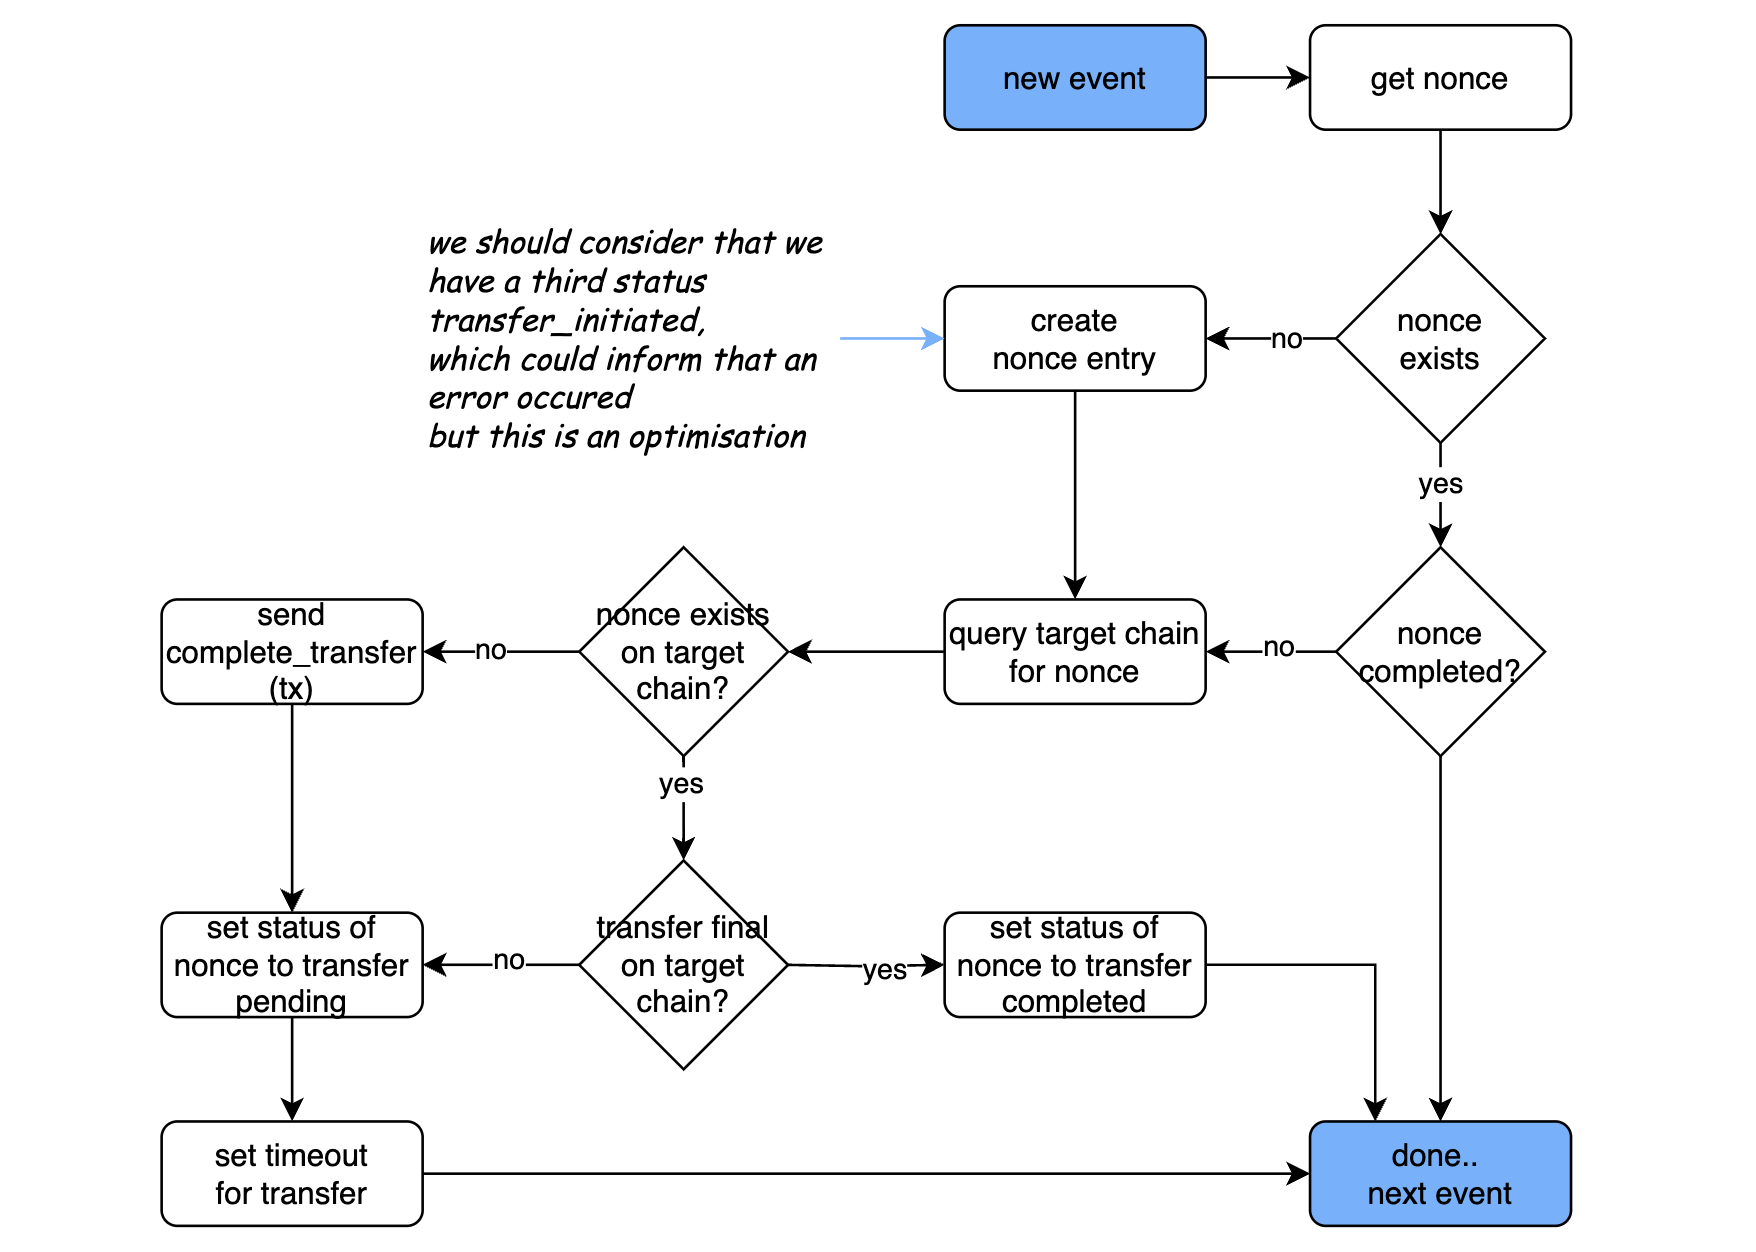
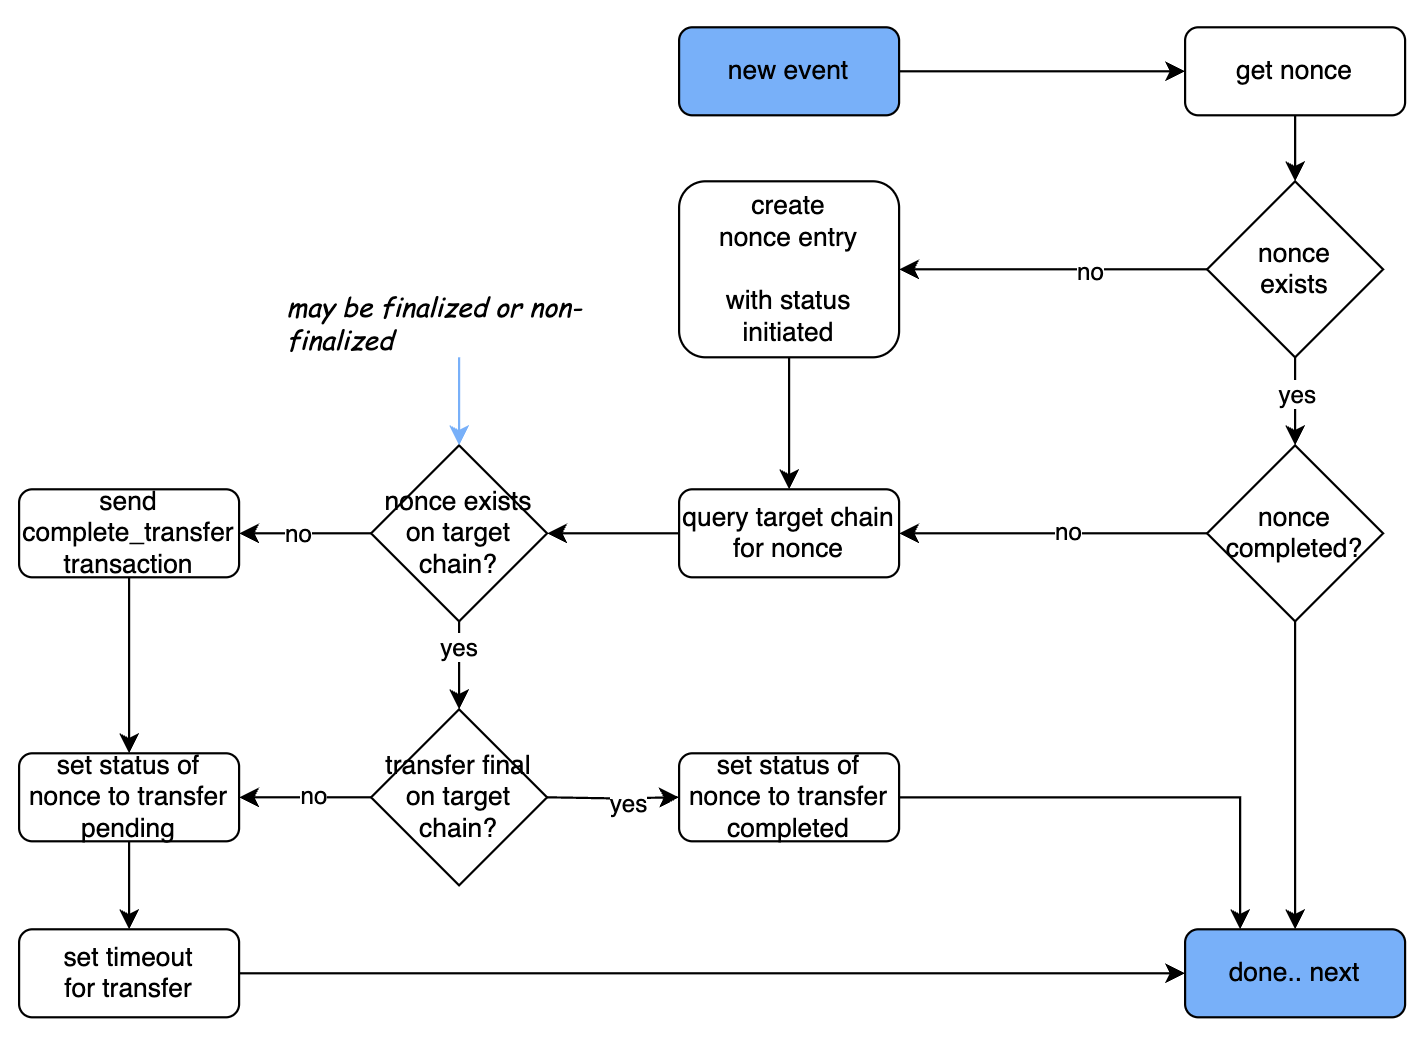
improve event_proccessing according to review

diff --git a/MIP/mip-61/README.md b/MIP/mip-61/README.md
@@ -21,7 +21,7 @@ We would like to minimize the number of trusted components. In a minimal solutio
 
 Several complications:
 
-- The `complete_transfer` message to the target chain for bridge transfers may fail, get lost, or other. Hence we cannot rely on delivery.
+- The `complete_transfer` transaction to the target chain for bridge transfers may fail, get lost, or other. Hence we cannot rely on delivery.
 - The relayer may loose local memory.
 - The relayer may have to be replaced.
 - The relayer (or its replacement) MUST not ignore a single transfer.
@@ -31,7 +31,7 @@ Several complications:
 **Bootstrapping**
 Currently, when the relayer starts, it doesn't reload the state that it has when it shuts down. If transfers are processed when the relayer stops, the transfers are lost and the relayer is not able to continue the transfer.
 
-Moreover, even if the data would be stored on where to continue, the relayer may crash for a variety of reasons. The relayer can go offline or crash. It needs to automatically understand which `complete_transfer` messages it still needs to send to the target chain.
+Moreover, even if the data would be stored on where to continue, the relayer may crash for a variety of reasons. The relayer can go offline or crash. It needs to automatically understand which `complete_transfer` transactions it still needs to send to the target chain.
 
 ## Context
 
@@ -46,7 +46,7 @@ In this MIP we consider the lock/mint Native Bridge, see [MIP-60](https://github
 
 ## Specification
 
-The key words "MUST", "MUST NOT", "REQUIRED", "SHALL", "SHALL NOT", "SHOULD", "SHOULD NOT", "RECOMMENDED", "NOT RECOMMENDED", "MAY", and "OPTIONAL" in this document are to be interpreted as described in RFC 2119 and RFC 8174.
+> _The key words "MUST", "MUST NOT", "REQUIRED", "SHALL", "SHALL NOT", "SHOULD", "SHOULD NOT", "RECOMMENDED", "NOT RECOMMENDED", "MAY", and "OPTIONAL" in this document are to be interpreted as described in RFC 2119 and RFC 8174._
 
 !!! . The algorithm is the same in both directions. Hence each algorithm has to be implemented twice. Once for the transfer direction L1 --> L2, and once for the L2 --> L1 direction.
 
@@ -56,12 +56,15 @@ The relayer can get its state from the source chain and target chain. The relaye
 
 **2. BOOTSTRAPPING:** The relayer initiate the event polling at some point in the past. This point is either the genesis, some configurable source block height, or some checkpoint (possibly set on-chain)
 
-### Structures
+### Assumptions on the Bridge Protocol
 
-On the source chain the following structure is used:
+**Nonce**:
+We assume the Native Bridge protocol MUST implement the assignment of an incrementing `nonce` on the source chain. Since there are two directions there MUST be two types of counters (`nonces`) - one for each transfer direction. The `nonce` is used to order the transfers.
+
+**Initiate Transfer**:
+The `initiate_transfer` function on the source chain is called by the user. It emits an event `initiate_transfer` with the following properties:
 
 ```javascript
-// Source Chain Structure
 {
     nonce: Number,          // Unique incrementing value for ordering transfers
     recipient: String,  // Address of the recipient on the target chain
@@ -70,10 +73,12 @@ On the source chain the following structure is used:
 }
 ```
 
-On the target chain the following structure is used:
+This structure is used to record the transfer on the source chain.
+
+**Complete Transfer**:
+The `complete_transfer` function on the target chain is called by the relayer. It emits an event `complete_transfer` with the following properties:
 
 ```javascript
-// Target Chain Structure
 {
     nonce: Number,         // Matching nonce from the source chain
     transferUID: String,   // Unique identifier for the transfer
@@ -83,43 +88,49 @@ On the target chain the following structure is used:
 }
 ```
 
+This structure is used to record the transfer on the target chain.
+
+### Relayer Structures
+
+
 Locally the relayer stores the following structure:
 
 ```javascript
 // Relayer Local Structure
 {
-    blocks: [                          // Array of blocks being tracked
-        {
-            blockHeight: Number,       // Height of the block
-            status: String,            // Status of the block (e.g., "processed", "completed")
-            events: [                  // Array of events in the block
-                {
-                    eventUID: String,  // Unique identifier for the event
-                    nonce: Number,     // Matching nonce from the source chain
-                    status: String     // Status of the event (e.g., "pending", "completed")
-                }
-            ]
+    nonces: {                          // Object keyed by nonce (integer)
+        [nonce: Number]: {             // Nonce as the integer key
+            blockHeight: Number,       // Height of the block containing the nonce
+            status: String,            // Status of the event
+            eventUID: String           // Unique identifier for the event
         }
-    ]
+    }
 }
 ```
 
+The relayer differentiates three status types:
 
-### EVENT_PROCESSING
+- `transfer_initiated`: the event has been received but not processed and the `complete_transfer` transaction has not been sent to the target chain.
+- `transfer_pending`: the `complete_transfer` transaction has been sent to the target chain but is not yet finalized.
+- `transfer_completed`: we received the (finalized) complete event.
 
-The relayer may send a message `complete_transfer` to the target chain for an event that has the status `transfer_pending`. This status exists during the time between the reception of the `initiate_transfer` event from the source chain and the success of the `complete_transfer` transaction on the target chain. (However, it is possible that a `complete_transfer` messages is not yet finalized on the target chain, in which case the relayer DOES NOT send a new `complete_transfer` message, but waits instead.)
+**Optimization**: There's another substate for pending when the `complete_transfer` transaction failed. In this case we should retry earlier than if the `complete_transfer` transaction was successful. We MAY differentiate the state `transfer_pending_executed` and `transfer_pending_failed`.
 
-The Native Bridge protocol MUST implement the assignment of an incrementing `nonce` on the source chain. Since there are two directions there MUST be two types of counters (`nonces`) - one for each transfer direction. The `nonce` is used to order the transfers.
+### EVENT_PROCESSING algorithm
 
 For each `initiate_transfer` event do the following:
 
 ![event_processing](event_processing.png)
 
+> [!NOTE]
+> The relayer may send a transaction `complete_transfer` to the target chain for an entry that has the status `transfer_pending`. This status exists during the time between the sending and the finalized success of the `complete_transfer` transaction on the target chain.
+
 ```javascript
 EVENT_PROCESSING:
-// Input: initiate_transfer_event from source chain
+// Input: initiate_transfer event from source chain
 // Input: target_chain_state - current state of the target chain
-SET `nonce` = `initiate_transfer_event.nonce` with nonce.status_transfer = `transfer_init`
+SET `nonce` = `initiate_transfer_event.nonce` 
+    with nonce.status_transfer = `transfer_initiated`
 SET `transfer_uid` = `initiate_transfer_event.transfer_uid`
 
 // Check if the `nonce` is already recorded
@@ -129,11 +140,11 @@ IF `nonce` is recorded THEN:
 ELSE: 
     CREATE new `nonce` entry locally and save it in ORDERED_SET.
 
-// note this is note the final state as is the case for most other state reads in this algorithm
-QUERY target chain contract for `nonce` in non-final state 
+// note this is not the final state as is the case for most other state reads in this algorithm
+QUERY target chain contract for `nonce` in non-final and final state
         
 // If `complete_transfer` transaction was sent previously to target chain
-IF `nonce` is found THEN:
+IF `nonce` is found on target chain THEN:
     IF `transfer_uid` does not match THEN:
         REPORT error and EXIT
 
@@ -153,7 +164,7 @@ ELSE:
     SET timeout for relayer to re-check later
 ```
 
-### CONTINUOUS_BLOCK_PROCESSING
+### CONTINUOUS_BLOCK_PROCESSING algorithm
 
 Next we describe the processing of source blocks and the completion of a transfer on the target chain, assuming the relayer is always online. Since this is a strong assumption, we reduce this requirement in the next section.
 
@@ -172,13 +183,8 @@ FOR EACH `event` IN `source_block.initiate_transfer_events` DO:
 SET `block.status` as `block_processed`
 ```
 
-!!! . Setting the source_block.status as processed and storing that information in a file, or similar, could help with bootstrapping the relayer in the future.
-
-#### Consider errors in the above procedure
-
-We MUST introduce a status `transfer_init` to differentiate a state between nonce creation locally and sending successfully a `complete_transfer` transaction to the target chain.
-
-![init_optimization](init_optimization.png)
+> [!NOTE]
+> Setting the source_block.status as processed and storing that information in a file, or similar, could help with bootstrapping the relayer in the future.
 
 #### Calculation of Completed Source Block Height
 
@@ -194,7 +200,6 @@ IF `nonce.status_transfer` is `transfer_completed` THEN:
 ```
 
 with
-
 
 ```javascript
 PROCESS_COMPLETED_NONCE_HEIGHT:
@@ -215,7 +220,7 @@ IF `nonce.status_transfer` is `transfer_completed` THEN:
 
 ### TIMEOUT algorithm
 
-1. Whenever the timeout of a transfer (which has `transfer_pending` status) is triggered. Start the event processing.
+Whenever the timeout of a transfer (which has `transfer_pending` status) is triggered. Start the event processing.
 
 ```javascript
 TIMEOUT:
@@ -233,7 +238,7 @@ ON timeoutTriggered(`timeoutTriggeredEvent`) DO:
 
 ![alt text](timeout.png)
 
-### BOOTSTRAPPING
+### BOOTSTRAP algorithm
 
 Next we describe how the bootstrap algorithm works and differs from the above.
 
